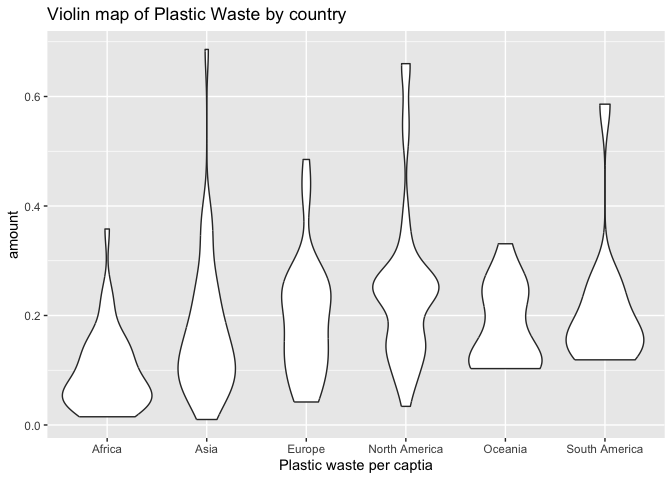
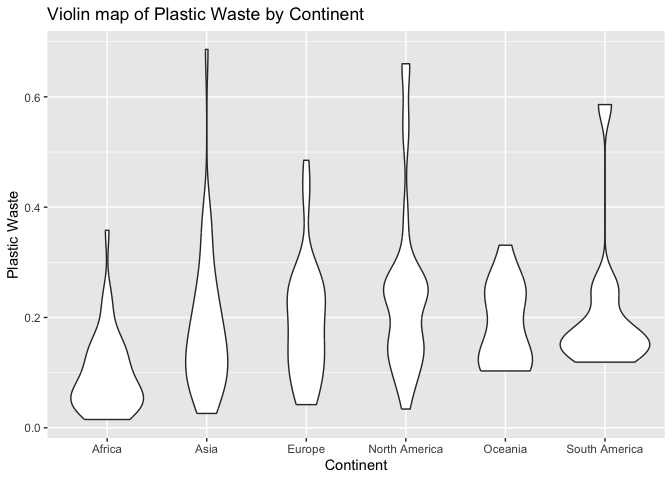
Up through question 4
Filtered each of the variables to exclude outliers.

diff --git a/lab-02.md b/lab-02.md
@@ -23,8 +23,9 @@ capita faceted by continent.
 Second plot is the same data as a density plot.
 
 ``` r
+#code to handle outliers
 true_plastic <- plastic_waste %>%
-  filter(plastic_waste_per_cap < 3)
+  filter(plastic_waste_per_cap < 3, mismanaged_plastic_waste < 3000000, total_pop < 250000000, coastal_pop < 150000000)
 
 ggplot(data = true_plastic, aes(x = plastic_waste_per_cap)) +
   #To make them one graph by color, add in fill = continent after plastice_waste_per_cap
@@ -90,7 +91,7 @@ ggplot(
 labs(
       x = "Plastic waste per captia",
       y = "amount",
-      title = "Side by side of Plastic Waste by country"
+      title = "Side by side of Plastic Waste by Continent"
   )
 ```
 
@@ -114,9 +115,9 @@ ggplot(
 ) +
  geom_violin() +
   labs(
-      x = "Plastic waste per captia",
-      y = "amount",
-      title = "Violin map of Plastic Waste by country"
+      x = "Continent",
+      y = "Plastic Waste",
+      title = "Violin map of Plastic Waste by Continent"
   )
 ```
 
@@ -124,23 +125,72 @@ ggplot(
 
 ### Exercise 4
 
-Remove this text, and add your answer for Exercise 4 here.
+Asia has more mismanaged plastic waste, yet it’s low on the amount of
+plastic waste per captia.
 
 ``` r
-# insert code here
+ggplot(
+  data = true_plastic,
+  mapping = aes(
+    x = mismanaged_plastic_waste,
+    y = plastic_waste_per_cap,
+    color = continent
+  )
+) +
+  geom_point() +
+labs(
+      x = "Mismanaged Plastic Waste",
+      y = "Plastic Waste",
+      title = "Plastic Waste x mismanaged plastic waste by Continent"
+  )
 ```
 
-``` r
-# insert code here
-```
+![](lab-02_files/figure-gfm/plastic-waste-mismanaged-1.png)<!-- --> High
+population in Asia yet lower on plastic waste per capita.
 
 ``` r
-# insert code here
+ggplot(
+  data = true_plastic,
+  mapping = aes(
+    x = total_pop,
+    y = plastic_waste_per_cap,
+    color = continent
+  )
+) +
+  geom_point() +
+labs(
+      x = "Total Population",
+      y = "Plastic Waste",
+      title = "Plastic Waste x Total Poulation by Continent"
+  )
 ```
 
+![](lab-02_files/figure-gfm/plastic-waste-population-total-1.png)<!-- -->
+
+Similar to the two plots above
+
 ``` r
-# insert code here
+ggplot(
+  data = true_plastic,
+  mapping = aes(
+    x = coastal_pop,
+    y = plastic_waste_per_cap,
+    color = continent
+  )
+) +
+  geom_point() +
+labs(
+      x = "Costal Population",
+      y = "Plastic Waste",
+      title = "Plastic Waste x Costal Poulation by Continent"
+  )
 ```
+
+![](lab-02_files/figure-gfm/plastic-waste-population-coastal-1.png)<!-- -->
+
+In total, it looks like North America has the higher plastic waste per
+captia (kg/day), yet they have lower populations. So it’s not due to
+people, more due to location.
 
 ### Exercise 5
 
